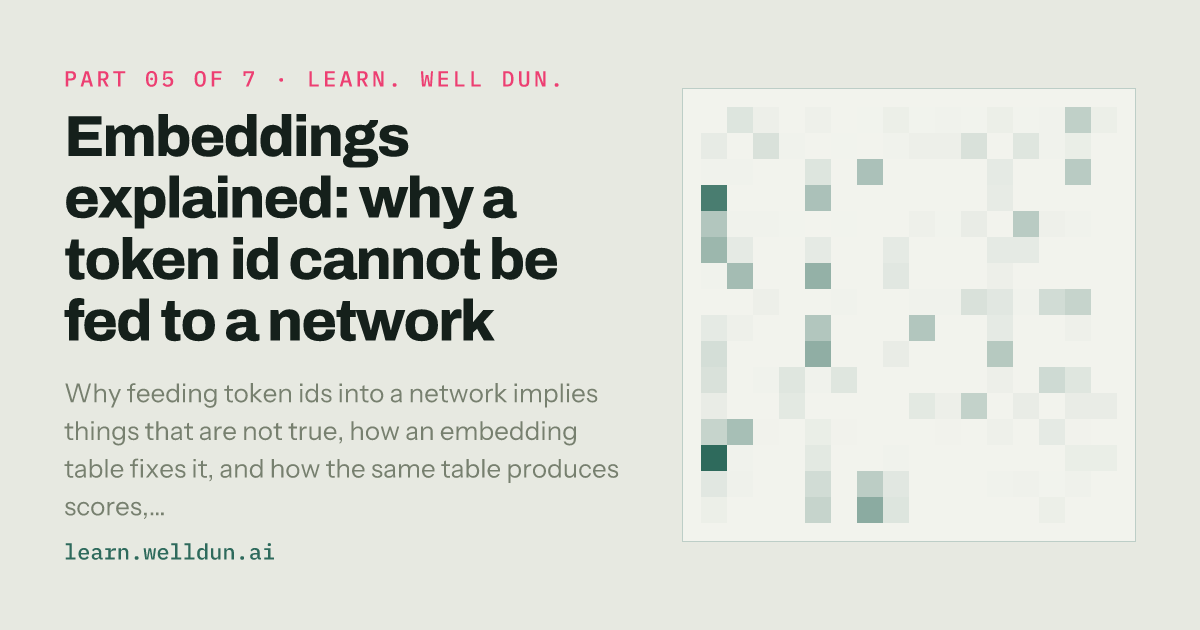
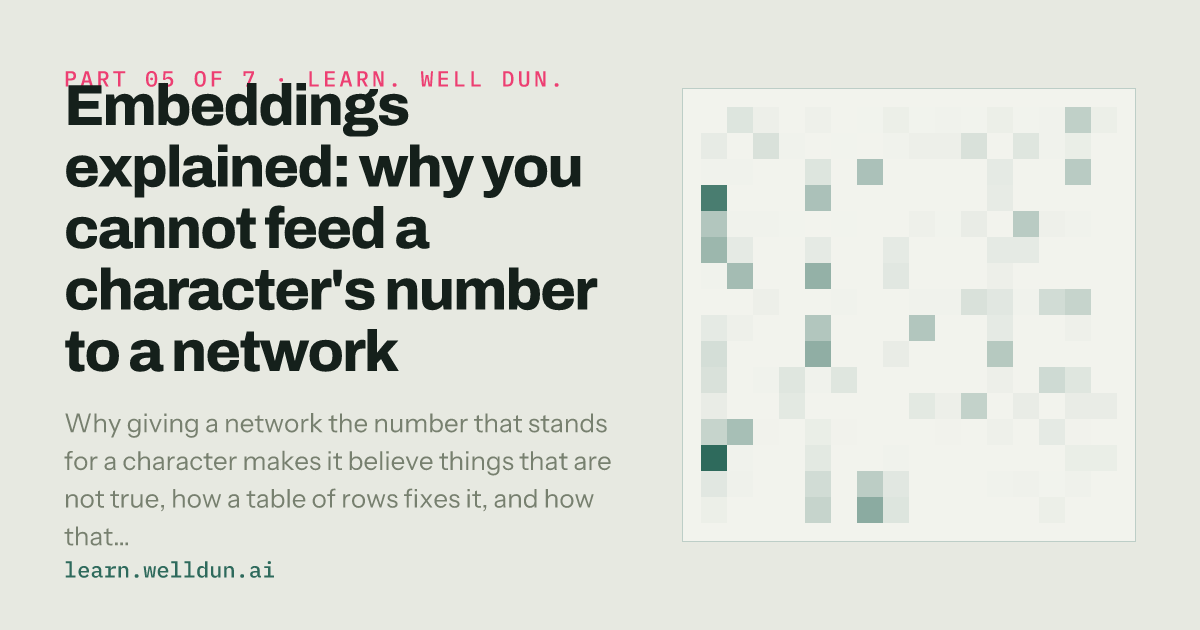
Rewrite part 05 in plainer language
The page was still hard to read. Rereading it, the trouble was not one sentence
but a habit: abstract subjects, code described as though it wanted things, and
four terms used without ever being explained.

Gone entirely: "numerically stable", "axes", "shape error", "token id",
"vocabulary tall and vocabulary wide", and "batching hands over".

The keepdims paragraph was the worst of it. It said the sum "has to stay
(4, 8, 1) so it lines up against (4, 8, 13)" and expected that to land. It now
says what is actually happening — softmax divides each score by its group's
total, there are thirty-two totals, they have to stay parked one behind each
position so NumPy can tell which belongs to which, and flattening them makes the
division fail outright.

Same treatment throughout. "Feed those into arithmetic" became "give it 9 and 1
and it will work out that 9 is nine times 1". "One per possible next character"
became one number for each character that might come next, saying how strongly t
expects it. "More numerically stable" became percentages get very small very
quickly and lose accuracy when they do.

Every measured number is unchanged: 13, 2.5649, 2.8912, 1.65, 5.03, and the
three rows of the comparison. Mean sentence length is now 15 words.

Also caught: the figure's toggle still read "counted in part 02", which is the
thing part numbers were removed from the prose for. It says "counted from the
text".

Changed region(s): [[0.0308, 0.1206, 0.5242, 0.9349]]

diff --git a/src/components/EmbeddingTable.tsx b/src/components/EmbeddingTable.tsx
@@ -69,7 +69,7 @@ export function EmbeddingTable() {
       <div className="mt-6 flex flex-wrap items-center gap-x-6 gap-y-2 border-t pt-4 hairline">
         <div className="flex gap-px">
           {[
-            { on: false, label: "counted in part 02" },
+            { on: false, label: "counted from the text" },
             { on: true, label: "learned, before training" },
           ].map((o) => (
             <button
